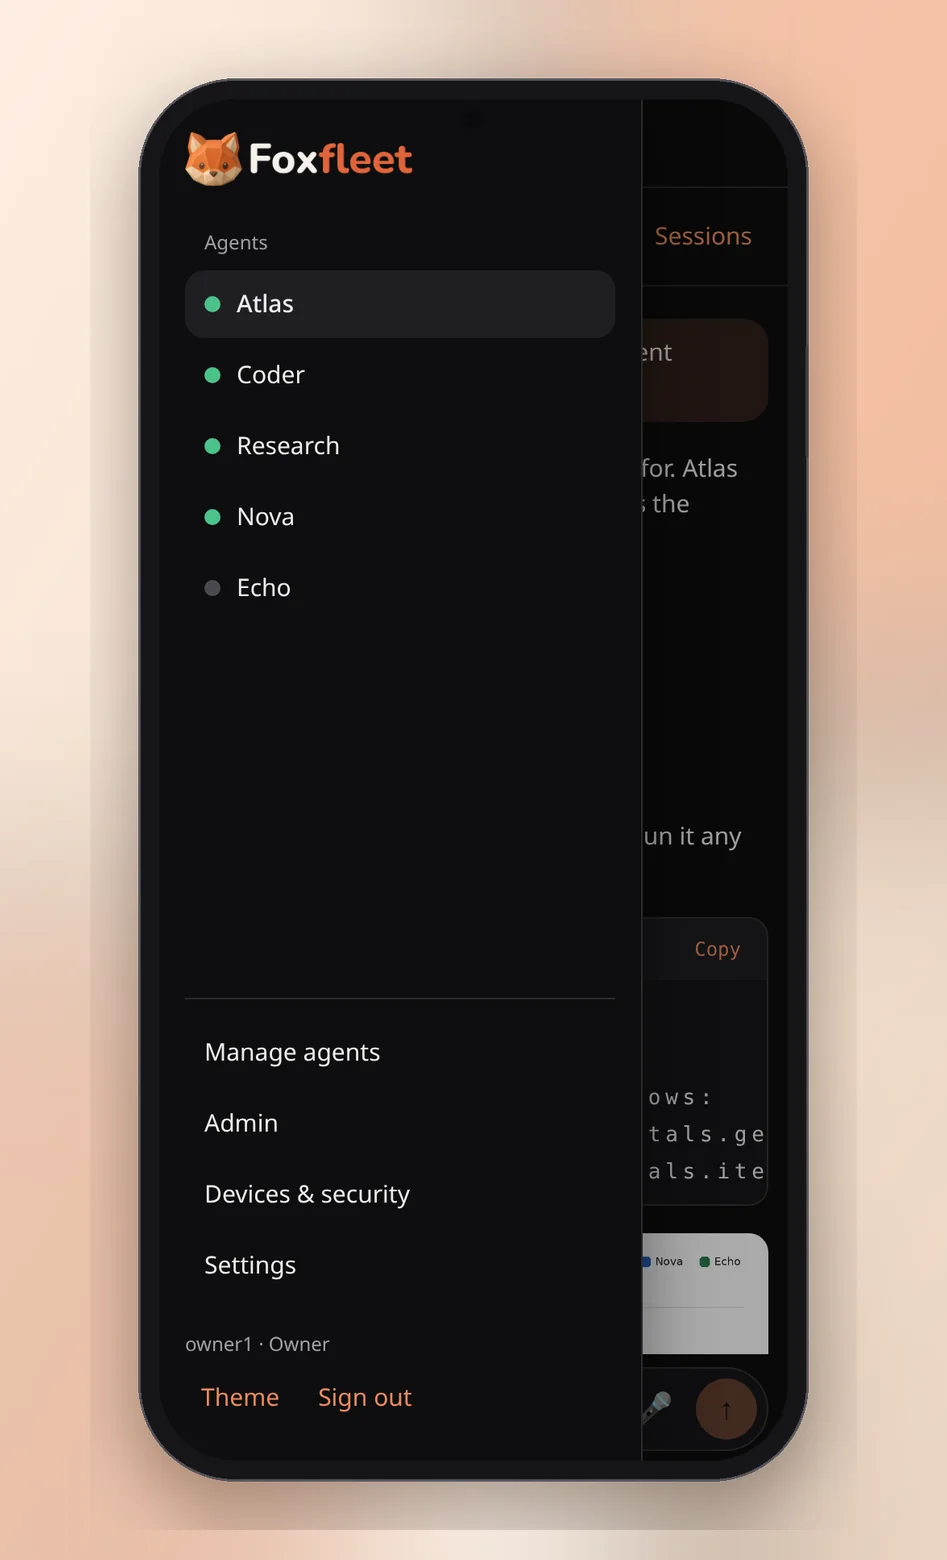
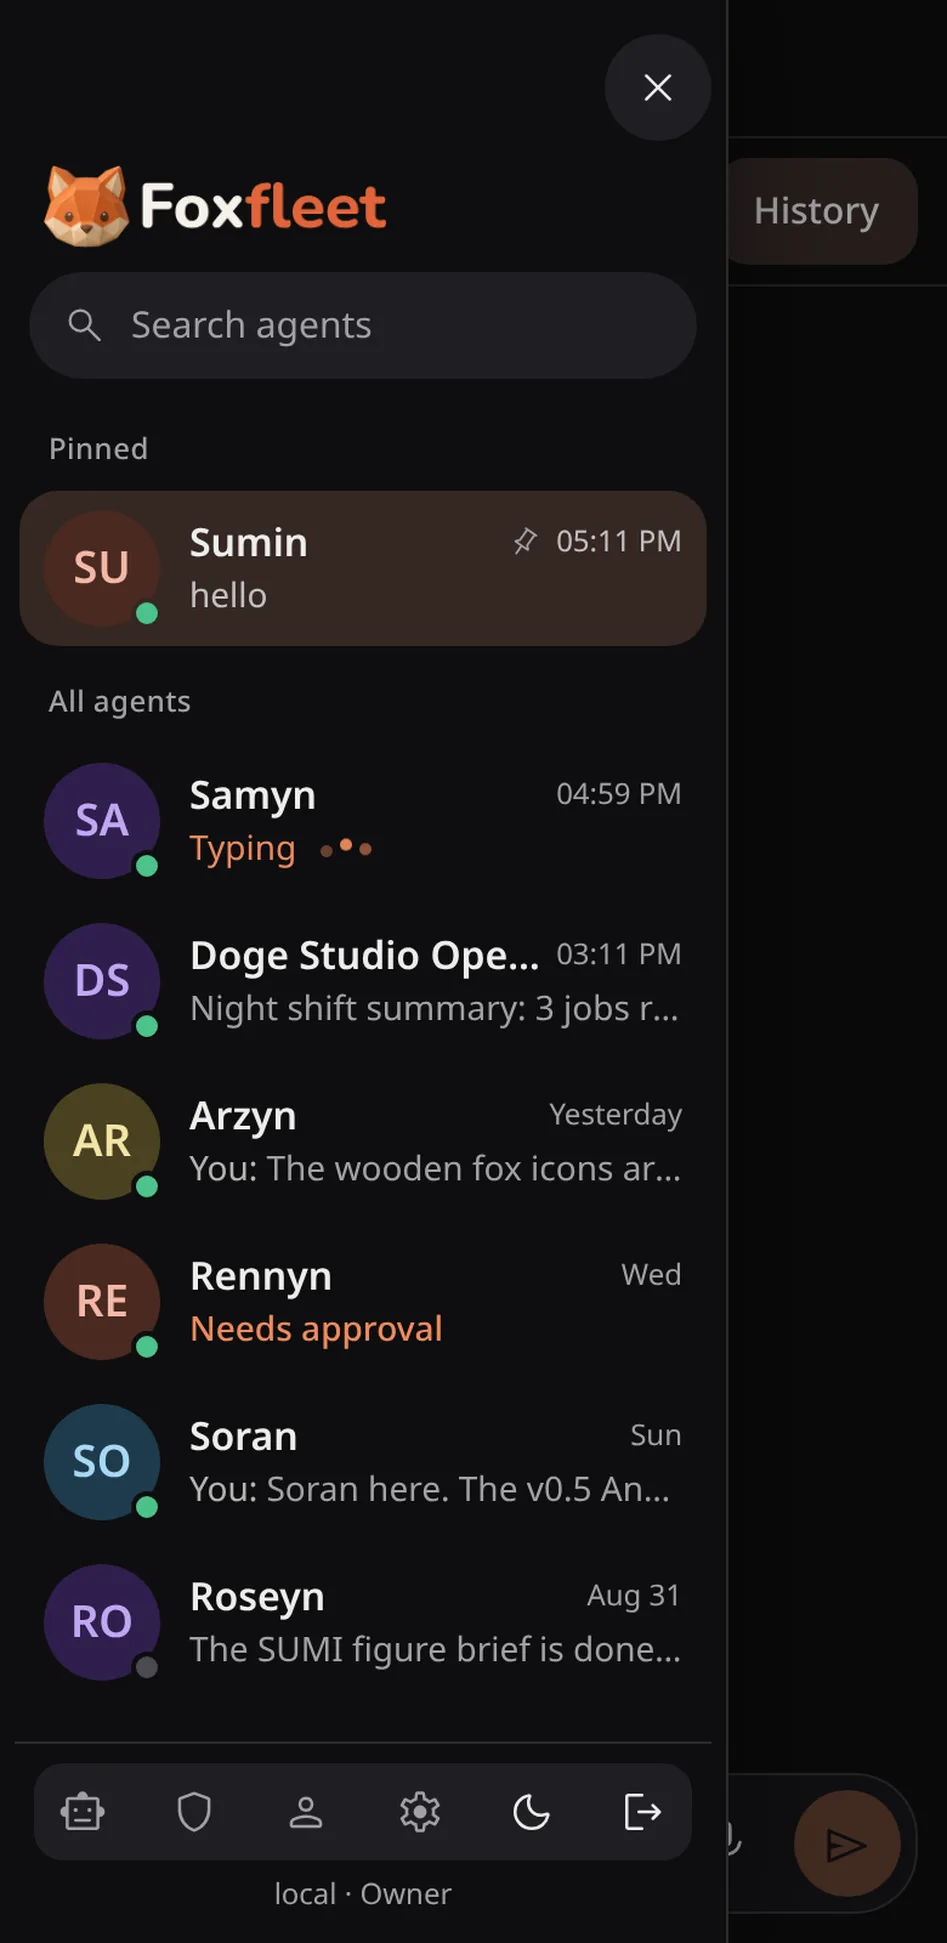
ui-polish: docs page + screenshots, consistent card widths on pages, roborazzi shots (0.3.4-alpha)

diff --git a/android/app/src/main/java/dev/foxfleet/app/ui/screens/SettingsScreen.kt b/android/app/src/main/java/dev/foxfleet/app/ui/screens/SettingsScreen.kt
@@ -13,6 +13,8 @@ import androidx.compose.foundation.layout.Box
 import androidx.compose.foundation.layout.Column
 import androidx.compose.foundation.layout.Row
 import androidx.compose.foundation.layout.Spacer
+import androidx.compose.foundation.layout.heightIn
+import androidx.compose.foundation.layout.widthIn
 import androidx.compose.foundation.layout.fillMaxSize
 import androidx.compose.foundation.layout.fillMaxWidth
 import androidx.compose.foundation.layout.height
@@ -70,11 +72,25 @@ fun SettingsScreen(
     val c = LocalHubColors.current
     Column(Modifier.fillMaxSize().background(c.bg).statusBarsPadding()) {
         Row(Modifier.fillMaxWidth().padding(horizontal = 8.dp, vertical = 8.dp), verticalAlignment = Alignment.CenterVertically) {
-            SoftIconButton(FoxIcons.get("back"), "Back", onBack, tint = c.text)
+            SoftIconButton(FoxIcons.get("back"), "Back", onBack, tint = c.text, background = c.surfaceAlt)
             Spacer(Modifier.width(4.dp))
             Text("Settings", style = MaterialTheme.typography.titleLarge, color = c.text)
         }
         Column(Modifier.weight(1f).verticalScroll(rememberScrollState()).padding(horizontal = 16.dp).navigationBarsPadding()) {
+            Spacer(Modifier.size(8.dp))
+            SoftCard(Modifier.fillMaxWidth(), onClick = onDevices) {
+                Row(Modifier.fillMaxWidth().padding(16.dp), verticalAlignment = Alignment.CenterVertically) {
+                    Box(Modifier.size(48.dp).clip(androidx.compose.foundation.shape.CircleShape).background(c.surfaceAlt), contentAlignment = Alignment.Center) {
+                        Text(dev.foxfleet.app.ui.components.initials(username.ifBlank { "?" }), color = c.text, style = MaterialTheme.typography.titleSmall)
+                    }
+                    Spacer(Modifier.width(14.dp))
+                    Column(Modifier.weight(1f)) {
+                        Text(username.ifBlank { "Signed in" }, style = MaterialTheme.typography.titleMedium, color = c.text, maxLines = 1)
+                        Text(hubName.ifBlank { "Connected hub" } + if (isOwner) " · Owner" else "", style = MaterialTheme.typography.bodySmall, color = c.textMuted, maxLines = 1)
+                    }
+                    dev.foxfleet.app.ui.components.FoxIcon("chevronRight", tint = c.textFaint)
+                }
+            }
             SectionLabel("Agents")
             SoftCard(Modifier.fillMaxWidth(), onClick = onAgents) {
                 Row(Modifier.fillMaxWidth().padding(16.dp), verticalAlignment = Alignment.CenterVertically) {
@@ -82,7 +98,7 @@ fun SettingsScreen(
                         Text("Manage agents", style = MaterialTheme.typography.bodyLarge, color = c.text)
                         Text("Add, edit, remove and reorder the agents your hub connects to.", style = MaterialTheme.typography.bodySmall, color = c.textMuted)
                     }
-                    Icon(Icons.AutoMirrored.Filled.KeyboardArrowRight, null, tint = c.textFaint)
+                    dev.foxfleet.app.ui.components.FoxIcon("chevronRight", tint = c.textFaint)
                 }
             }
             SectionLabel("Appearance")
@@ -117,16 +133,12 @@ fun SettingsScreen(
             SectionLabel("Account")
             SoftCard(Modifier.fillMaxWidth()) {
                 Column {
-                    InfoRow("Hub", hubName.ifBlank { "Connected" })
+                    NavRow("Hubs", value = hubName.ifBlank { "Connected" }, onClick = onHubs)
                     Hairline(Modifier.padding(start = 16.dp))
-                    if (username.isNotBlank()) { InfoRow("Signed in as", username); Hairline(Modifier.padding(start = 16.dp)) }
-                    Text("Hubs", color = c.text, style = MaterialTheme.typography.bodyLarge, modifier = Modifier.fillMaxWidth().clickable(onClick = onHubs).padding(16.dp))
+                    if (isOwner) { NavRow("Admin", "Pairing, invites, people", onClick = onAdmin); Hairline(Modifier.padding(start = 16.dp)) }
+                    NavRow("Devices & security", onClick = onDevices)
                     Hairline(Modifier.padding(start = 16.dp))
-                    if (isOwner) { Text("Admin: pairing, invites, people", color = c.text, style = MaterialTheme.typography.bodyLarge, modifier = Modifier.fillMaxWidth().clickable(onClick = onAdmin).padding(16.dp)); Hairline(Modifier.padding(start = 16.dp)) }
-                    Text("Devices & security", color = c.text, style = MaterialTheme.typography.bodyLarge, modifier = Modifier.fillMaxWidth().clickable(onClick = onDevices).padding(16.dp))
-                    Hairline(Modifier.padding(start = 16.dp))
-                    Text("Sign out", color = Color_Danger(), style = MaterialTheme.typography.bodyLarge,
-                        modifier = Modifier.fillMaxWidth().clickable(onClick = onSignOut).padding(16.dp))
+                    NavRow("Sign out", danger = true, chevron = false, onClick = onSignOut)
                 }
             }
             SectionLabel("About")
@@ -147,6 +159,20 @@ fun SettingsScreen(
 
 @Composable
 private fun Color_Danger() = if (LocalHubColors.current.dark) androidx.compose.ui.graphics.Color(0xFFFF7B72) else androidx.compose.ui.graphics.Color(0xFFC4372B)
+
+/** A settings row: title (+ optional second line), optional value on the right, chevron; 56dp tall at least. */
+@Composable
+private fun NavRow(title: String, subtitle: String? = null, value: String? = null, danger: Boolean = false, chevron: Boolean = true, onClick: () -> Unit) {
+    val c = LocalHubColors.current
+    Row(Modifier.fillMaxWidth().heightIn(min = 56.dp).clickable(onClick = onClick).padding(horizontal = 16.dp, vertical = 10.dp), verticalAlignment = Alignment.CenterVertically) {
+        Column(Modifier.weight(1f)) {
+            Text(title, style = MaterialTheme.typography.bodyLarge, color = if (danger) Color_Danger() else c.text)
+            if (subtitle != null) Text(subtitle, style = MaterialTheme.typography.bodySmall, color = c.textMuted)
+        }
+        if (value != null) { Text(value, style = MaterialTheme.typography.bodyMedium, color = c.textMuted, maxLines = 1, modifier = Modifier.widthIn(max = 160.dp)); Spacer(Modifier.width(8.dp)) }
+        if (chevron) dev.foxfleet.app.ui.components.FoxIcon("chevronRight", tint = c.textFaint)
+    }
+}
 
 @Composable
 private fun RowLabel(t: String) {

diff --git a/android/app/src/main/java/dev/foxfleet/app/ui/screens/ChatScreen.kt b/android/app/src/main/java/dev/foxfleet/app/ui/screens/ChatScreen.kt
@@ -76,6 +76,7 @@ import dev.foxfleet.app.ui.chat.ChatState
 import dev.foxfleet.app.ui.components.AgentAvatar
 import dev.foxfleet.app.ui.components.Hairline
 import dev.foxfleet.app.ui.components.ShimmerStatusText
+import dev.foxfleet.app.ui.motion.messageEnter
 import dev.foxfleet.app.ui.components.SoftIconButton
 import dev.foxfleet.app.ui.components.presence
 import dev.foxfleet.app.ui.motion.pressScale
@@ -291,6 +292,8 @@ private fun Transcript(agentName: String, state: ChatState, modifier: Modifier, 
         }
         return
     }
+    var baseline by remember { mutableStateOf<Int?>(null) }
+    androidx.compose.runtime.LaunchedEffect(state.loading, state.messages.isNotEmpty()) { if (!state.loading && baseline == null) { kotlinx.coroutines.delay(700); baseline = state.keyBase + state.messages.size } }
     LazyColumn(
         state = list, reverseLayout = true, modifier = modifier.fillMaxWidth(),
         contentPadding = PaddingValues(horizontal = 16.dp, vertical = 12.dp),
@@ -335,7 +338,9 @@ private fun Transcript(agentName: String, state: ChatState, modifier: Modifier, 
         if (state.loading) item(key = "loading") { ShimmerStatusText("Loading conversation…", Modifier.padding(8.dp)) }
         val rev = state.messages.asReversed()
         items(rev.size, key = { state.keyBase + rev.size - 1 - it }) { i ->
-            MessageRow(agentName, rev[i], Modifier.animateItem(), onOpen)
+            // only messages that arrive after the history has been shown animate in (never old ones scrolled back into view)
+            val b = baseline; val isNew = b != null && state.keyBase + rev.size - 1 - i >= b
+            MessageRow(agentName, rev[i], Modifier.animateItem().messageEnter(isNew), onOpen)
         }
         if (state.loadingOlder) item(key = "older") { ShimmerStatusText("Loading earlier messages…", Modifier.padding(8.dp)) }
     }
@@ -405,7 +410,9 @@ private fun StreamingMessage(agentName: String, state: ChatState, modifier: Modi
                 )
             }
             AgentMediaCards(agentName, parsedStream.media, onOpen)
-            if (status != null) ShimmerStatusText(status, Modifier.padding(top = 4.dp))
+            androidx.compose.animation.Crossfade(status, animationSpec = androidx.compose.animation.core.tween(dev.foxfleet.app.ui.Tokens.motionStatusMs), label = "status") { st ->
+                if (st != null) Row(Modifier.padding(top = 4.dp).heightIn(min = 24.dp), verticalAlignment = Alignment.CenterVertically) { ShimmerStatusText(st); TypingDots(c.textMuted) }
+            }
         }
     }
 }

diff --git a/android/app/src/test/java/dev/foxfleet/app/screenshots/UiPolishScreenshotTest.kt b/android/app/src/test/java/dev/foxfleet/app/screenshots/UiPolishScreenshotTest.kt
@@ -12,7 +12,10 @@ import androidx.compose.ui.unit.Density
 import com.github.takahirom.roborazzi.captureRoboImage
 import dev.foxfleet.app.data.*
 import dev.foxfleet.app.ui.FoxfleetTheme
+import dev.foxfleet.app.ui.chat.ChatState
+import dev.foxfleet.app.ui.screens.ChatScreen
 import dev.foxfleet.app.ui.screens.FleetScreen
+import dev.foxfleet.app.ui.screens.SettingsScreen
 import org.junit.Rule
 import org.junit.Test
 import org.junit.runner.RunWith
@@ -64,4 +67,17 @@ class UiPolishScreenshotTest {
     @Test fun listBigFont360Dark() = fleet("11-agent-list-1.3x-360dp", true, 360, 740, fontScale = 1.3f)
     @Test fun skeleton411Dark() = fleet("12-agent-list-loading-411dp", true, 411, 891, list = emptyList(), loading = true)
     @Test fun empty411Light() = fleet("13-agent-list-empty-411dp", false, 411, 891, list = emptyList())
+
+    private val atlas = AgentStatus("Sumin", online = true, chatReady = true, managementReady = true, capabilities = Capabilities(images = true, files = true, sessions = true))
+    private fun chat(name: String, dark: Boolean, w: Int, h: Int, fontScale: Float = 1f) {
+        val state = ChatState().apply {
+            load(listOf(UiMessage("user", "Can you summarise the release notes?", ts = now - 300_000), UiMessage("assistant", "FoxFleet **0.3.3-alpha** is released.\n\n- Cloudflare blips no longer sign you out\n- Agents can send pictures, video and files", ts = now - 240_000), UiMessage("user", "Anything blocking?", ts = now - 120_000)), "s9")
+            simulateStream("", tool = "terminal")
+        }
+        shot(name, dark, w, h, fontScale) { ChatScreen(atlas, listOf(atlas), state, emptyList(), { false }, { _, _ -> }, {}, {}, {}, {}, {}, {}) }
+    }
+    @Test fun chat360Light() = chat("14-chat-360dp", false, 360, 740)
+    @Test fun chat411Dark() = chat("14-chat-411dp", true, 411, 891)
+    @Test fun settings360Dark() = shot("15-settings-360dp", true, 360, 740) { SettingsScreen(AppPrefs(theme = ThemeMode.Dark), {}, {}, {}, hubName = "Home hub", username = "Minh Minh", isOwner = true) }
+    @Test fun settings411Light() = shot("15-settings-411dp", false, 411, 891) { SettingsScreen(AppPrefs(theme = ThemeMode.Light), {}, {}, {}, hubName = "Home hub", username = "Minh Minh", isOwner = true) }
 }

diff --git a/android/app/src/main/java/dev/foxfleet/app/ui/motion/Motion.kt b/android/app/src/main/java/dev/foxfleet/app/ui/motion/Motion.kt
@@ -10,6 +10,7 @@ import androidx.compose.runtime.Composable
 import androidx.compose.runtime.getValue
 import androidx.compose.runtime.remember
 import androidx.compose.ui.Modifier
+import androidx.compose.ui.unit.dp
 import androidx.compose.ui.graphics.graphicsLayer
 import androidx.compose.ui.hapticfeedback.HapticFeedbackType
 import androidx.compose.ui.platform.LocalContext
@@ -56,4 +57,15 @@ fun rememberHaptic(): (HapticFeedbackType) -> Unit {
     val h = LocalHapticFeedback.current
     val on = LocalAppPrefs.current.haptics
     return remember(h, on) { { t -> if (on) h.performHapticFeedback(t) } }
+}
+
+/** Incoming message: fade + 0.96 scale + 8dp rise, 180 ms ease-out (design tokens). Only when [enabled]; static under reduce motion. */
+@Composable
+fun Modifier.messageEnter(enabled: Boolean): Modifier {
+    if (!enabled || reduceMotion()) return this
+    val a = remember { androidx.compose.animation.core.Animatable(0f) }
+    androidx.compose.runtime.LaunchedEffect(Unit) { a.animateTo(1f, androidx.compose.animation.core.tween(dev.foxfleet.app.ui.Tokens.motionMessageInMs, easing = androidx.compose.animation.core.CubicBezierEasing(0.2f, 0f, 0f, 1f))) }
+    return this.graphicsLayer {
+        alpha = a.value; val k = 0.96f + 0.04f * a.value; scaleX = k; scaleY = k; translationY = (1f - a.value) * 8.dp.toPx()
+    }
 }

diff --git a/android/app/src/main/java/dev/foxfleet/app/ui/components/Common.kt b/android/app/src/main/java/dev/foxfleet/app/ui/components/Common.kt
@@ -61,7 +61,7 @@ fun SoftCard(
 ) {
     val c = LocalHubColors.current
     val src = remember { MutableInteractionSource() }
-    var m = modifier.pressScale(src).clip(RoundedCornerShape(16.dp)).background(c.surface)
+    var m = modifier.pressScale(src).clip(RoundedCornerShape(20.dp)).background(c.surface)
     if (onClick != null) m = m.clickable(interactionSource = src, indication = null, onClick = onClick)
     Box(m, content = content)
 }
@@ -69,10 +69,10 @@ fun SoftCard(
 @Composable
 fun SectionLabel(text: String, modifier: Modifier = Modifier) {
     Text(
-        text.uppercase(),
-        style = androidx.compose.material3.MaterialTheme.typography.labelMedium,
-        color = LocalHubColors.current.textFaint,
-        modifier = modifier.padding(start = 4.dp, bottom = 8.dp, top = 20.dp),
+        text,
+        style = androidx.compose.material3.MaterialTheme.typography.labelLarge,
+        color = LocalHubColors.current.textMuted,
+        modifier = modifier.padding(start = 16.dp, bottom = 8.dp, top = 24.dp),
     )
 }
 

diff --git a/web/src/styles/polish.css b/web/src/styles/polish.css
@@ -122,3 +122,7 @@
 /* one focus ring on the composer (it used to draw the border AND a second outline: a double border) */
 .composer .bar:focus-within { outline: none; border-color: var(--accent); box-shadow: 0 0 0 2px var(--accent); }
 @media (max-width: 760px) { .topbar { border-bottom: 0; } }
+
+/* pages: cards on one page share one width and are separated (Manage agents had a narrow card above a wide one, touching) */
+.page .stack { max-width: none; }
+.page > .card + .card, .page > section + .card, .page > .card + section { margin-top: 16px; }

diff --git a/CHANGELOG.md b/CHANGELOG.md
@@ -6,6 +6,21 @@ All notable changes to Foxfleet. The format follows [Keep a Changelog](https://k
 
 (nothing yet)
 
+## 0.3.4-alpha (Android versionCode 12)
+
+### Added: a Telegram-style agent list, sorted by activity, with pins
+- **Order:** pinned agents first (in the order you pinned them, up to 50), then newest message activity, then agents with no messages in registry order. The manual order under *Manage agents* is now only the tie-break. Pins and last-activity data are per account on the hub.
+- **Rows** (web sidebar and Android home): avatar with presence dot, name (not the description), one-line preview of the last message (`You: ` for your own; *Typing…* while a reply runs; *Needs approval* for an open Hermes request), right-aligned time (clock today, *Yesterday*, weekday this week, short date, locale aware), unread dot, pin mark. Search by name or preview.
+- **Pin / unpin:** web: row button or right-click / long-press menu. Android: swipe a row or long-press it (the menu also has *Change picture*). Reordering animates (FLIP on web, `animateItem` on Android) and honours Reduce motion.
+- **Hub:** `GET /api/agents` adds `last_activity_at`, `last_session_title`, `last_message_preview` (140 characters, plain text: no Markdown, `MEDIA:` tags, addresses or secret-looking values), `last_role`, `pinned`, `pin_order`, `working`, `needs_input` and returns the list sorted; new `PUT /api/agents/{name}/pin`. Updated when you send and when a reply ends, whatever path it took; older API-key chats seed it from the hub's history. Stored per user in `activity.json`. Never contains an address or host.
+- Shared rules and vectors: `contract/agent-list.vectors.json` is checked by the hub, the web app and Android (order, preview line, time labels).
+
+### Changed: polish
+- Design tokens for motion (message-in 180 ms, status 180 ms, panel in 240 / out 150 ms, typing loop 600 ms with 150 ms phase) and the 44 px touch target; reduced-motion zeroes them.
+- Incoming messages fade, scale from 0.96 and rise 8 px (only messages that arrive after the history is shown); a three-dot typing indicator and a status line that cross-fades in a fixed slot; the "Completed" line fades away; skeleton rows instead of "Loading…" text.
+- Agent replies are soft surface cards, yours tinted pills; Android settings: profile card, rows with chevrons, sentence-case section labels, 20 dp cards; rounded circular header and tool buttons (web sidebar tools are icon buttons, so *Sign out* no longer wraps); a back button that is a circle.
+- Fixed: the web composer drew a border and a second outline when focused; the web header buttons *Screen* and *New chat* touched; the drawer's agent list was clipped by the tools block on phones.
+
 ## 0.3.3-alpha (Android versionCode 11)
 
 ### Fixed: short outages (Cloudflare blips) no longer end sessions

diff --git a/site/apps/agent-list.md b/site/apps/agent-list.md
@@ -1,0 +1,39 @@
+# The agent list
+
+The list is how you move between agents. On the web it is the sidebar (a drawer behind the menu button on phones); on Android it is the home screen.
+
+![Android agent list: a pinned agent on top, previews, times, unread dots, Typing and Needs approval](/img/android-fleet-light.webp)
+
+On the web (desktop):
+
+![Web sidebar with the agent list](/img/web-agent-list-light.webp)
+
+## What a row shows
+
+- **Avatar and presence:** a colour tint and initials (or the emoji from the agent's *Avatar hint*), with a dot: green ready, amber online, grey offline.
+- **Name:** the agent's name (not its description), one line.
+- **Preview:** the last message of the last active chat, one plain line. Your own messages start with **You:**. Markdown, `MEDIA:` tags, addresses and anything that looks like a key or token are removed first. A picture-only reply reads *Photo*, *Video*, *Voice message* or *File: name*.
+- **Typing…:** a reply is running right now. **Needs approval:** the agent is waiting for an answer or an approval (Hermes native chat).
+- **Time:** the clock for today, *Yesterday*, the weekday within the last week, then a short date (with the year when it is not this year), in your language.
+- **Unread dot:** the agent replied after you last opened this chat on this device. A new device starts with everything read.
+
+## Order
+
+1. **Pinned agents** first, in the order you pinned them (up to 50).
+2. Everything else by **latest message activity**, newest on top. Rows slide to their new place (no animation when *Reduce motion* is on).
+3. Agents with no messages yet follow, in the order set under *Manage agents*.
+
+Pins belong to your account on the hub, so they follow you to every browser and phone. Last-activity data is also per account.
+
+## Pin and unpin
+
+- **Web:** hover a row and press the pin button, or right-click (long-press on a touch screen) and choose *Pin to top*. The same menu unpins.
+- **Android:** swipe a row sideways, or long-press it and choose *Pin to top*. The long-press menu also has *Change picture*.
+
+## Search
+
+The magnifier (Android) or the field above the list (web) filters by name and by the preview text.
+
+## Where the data comes from
+
+The hub records, per account, the last message you sent and the last reply it relayed, and adds them to `GET /api/agents` as `last_activity_at`, `last_session_title`, `last_message_preview` and `last_role` (see the [API reference](/reference/api)). For API-key agents it also reads older chats from the hub's own history, so they show up straight away. Hermes agents show activity from the moment they are used through FoxFleet; chats you had elsewhere appear after the next message. The hub never sends addresses or hosts in these fields.

diff --git a/site/apps/avatars.md b/site/apps/avatars.md
@@ -3,8 +3,8 @@
 ## What an avatar looks like today
 
 - **Default:** a circle with the agent's initials on a stable pastel tint (the same colour for the same name on every screen), plus a presence dot: ready, online or offline.
-- **Android custom avatar:** in a chat, **long-press the avatar** in the header, pick a picture, then pan and zoom it inside the circle cropper. The result is stored **on that phone only** (512 px square WebP in the app's private storage); the hub never sees it. *Reset* returns to the default.
-- **Web:** shows the default avatar; custom avatars are not available yet.
+- **Android custom avatar:** in the agent list, **long-press the row** and choose *Change picture* (or long-press the avatar in a chat header), pick a picture, then pan and zoom it inside the circle cropper. The result is stored **on that phone only** (512 px square WebP in the app's private storage); the hub never sees it. *Reset* returns to the default.
+- **Web:** shows the default avatar, or the emoji set as the agent's *Avatar hint*; custom pictures are not available yet.
 
 ## Hub avatar packs (server feature, no client yet)
 

diff --git a/site/apps/chat.md b/site/apps/chat.md
@@ -1,6 +1,6 @@
 # Chat
 
-Pick an agent in the sidebar (web) or the list (Android). The header shows its name and whether it is online or ready.
+Pick an agent in the sidebar (web) or the list (Android); see [the agent list](/apps/agent-list). The header shows its name and whether it is online or ready.
 
 ## Replies
 
